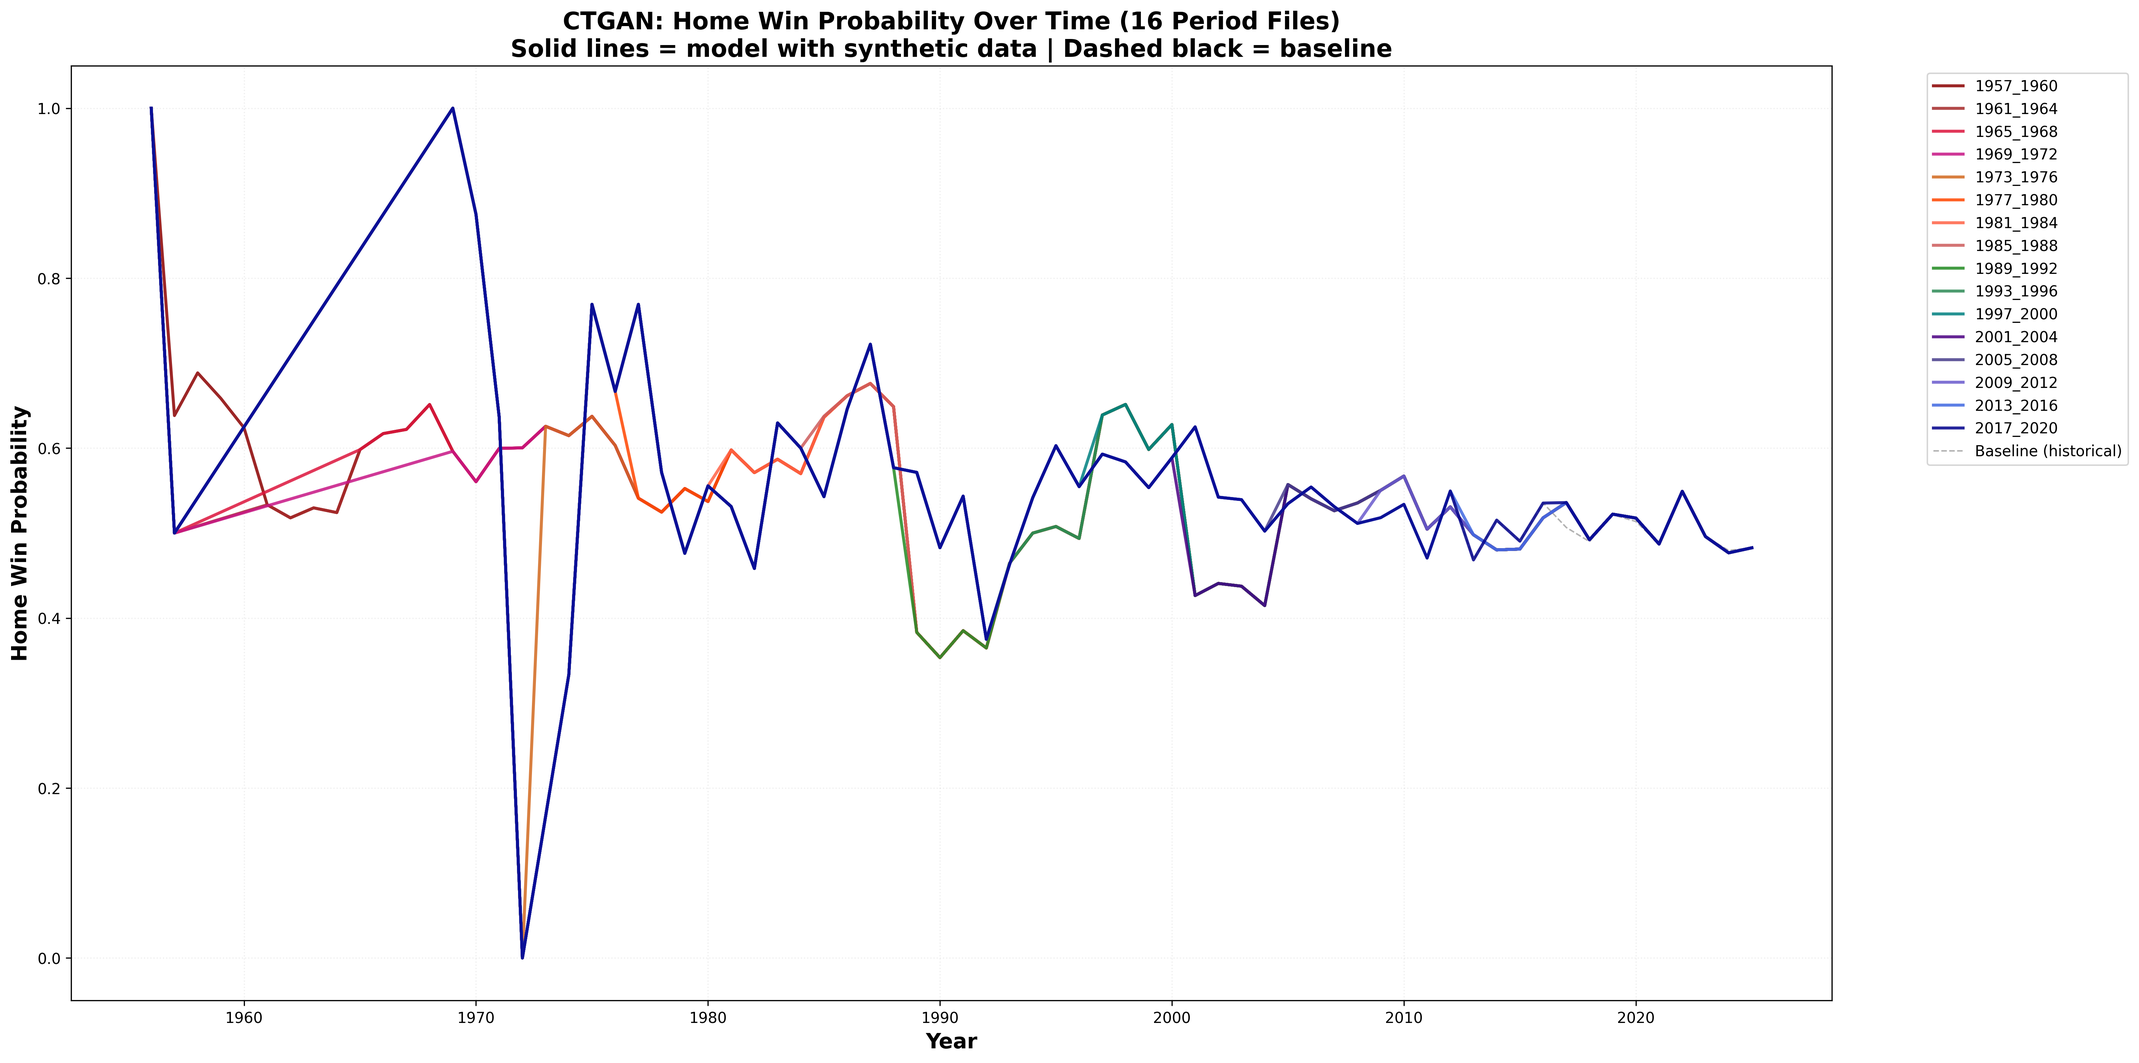
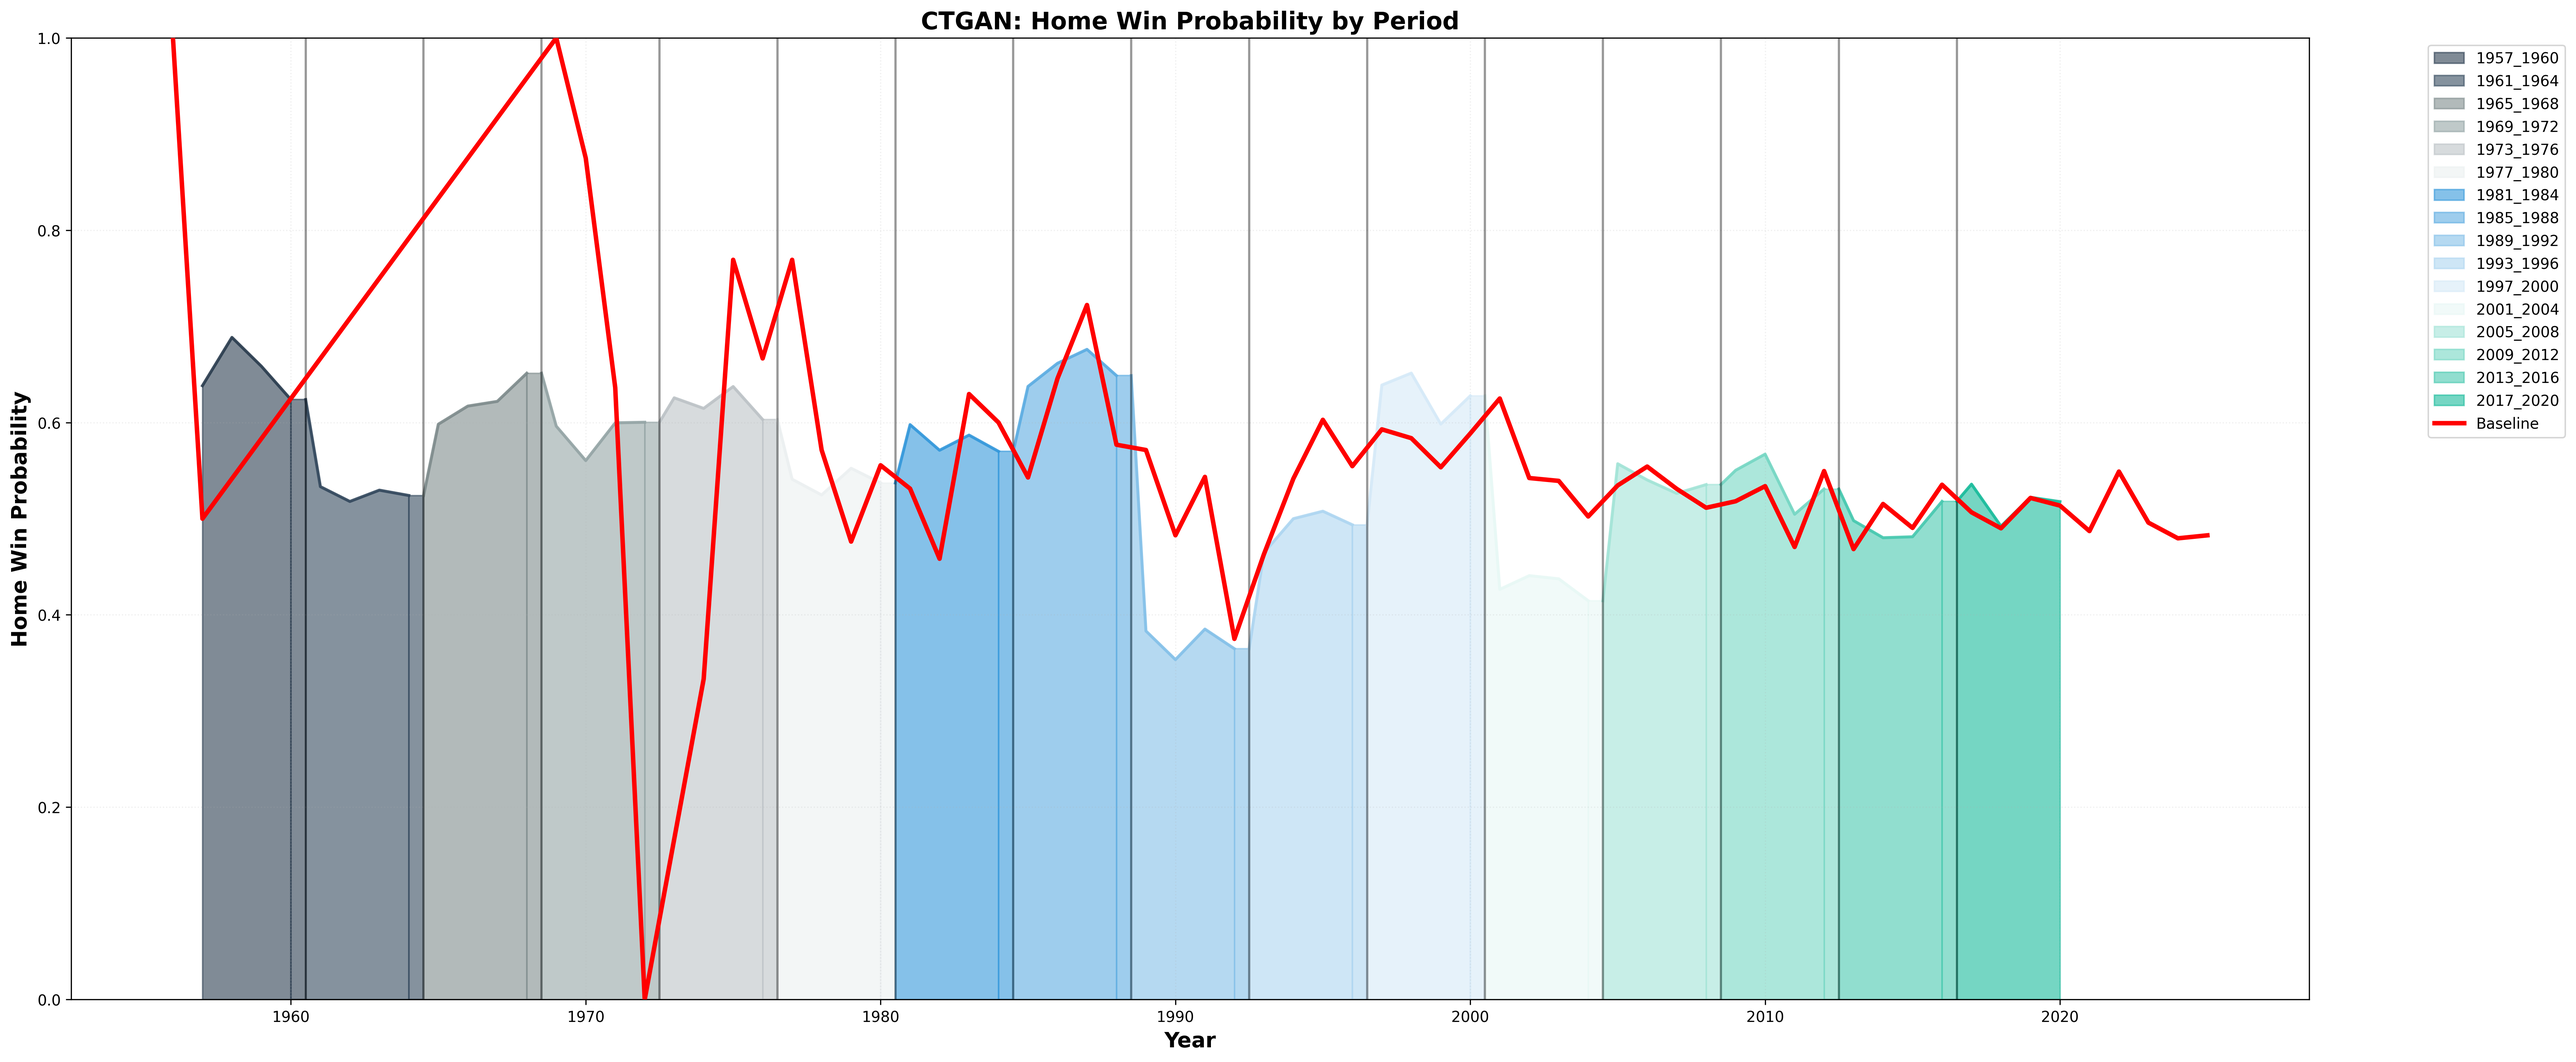
visualization

diff --git a/aggregate_visualization.py b/aggregate_visualization.py
@@ -9,137 +9,34 @@ from pathlib import Path
 class AggregateVisualizer:
     def __init__(self):
         self.properties_dir = Path('properties')
-        self.models = ['baseline', 'poisson', 'ctgan', 'gaussian_copula', 'copulagan', 'tvae']
+        self.models = ['poisson', 'ctgan', 'gaussian_copula', 'copulagan', 'tvae']
         self.periods = [
             '1957_1960', '1961_1964', '1965_1968', '1969_1972',
             '1973_1976', '1977_1980', '1981_1984', '1985_1988',
             '1989_1992', '1993_1996', '1997_2000', '2001_2004',
             '2005_2008', '2009_2012', '2013_2016', '2017_2020'
         ]
-        self.colors = {
-            'baseline': 'black',
-            'poisson': '#1f77b4',
-            'ctgan': '#ff7f0e',
-            'gaussian_copula': '#2ca02c',
-            'copulagan': '#d62728',
-            'tvae': '#9467bd'
+        
+        self.period_colors = {
+            '1957_1960': '#2C3E50', '1961_1964': '#34495E', '1965_1968': '#7F8C8D',
+            '1969_1972': '#95A5A6', '1973_1976': '#BDC3C7', '1977_1980': '#ECF0F1',
+            '1981_1984': '#3498DB', '1985_1988': '#5DADE2', '1989_1992': '#85C1E9',
+            '1993_1996': '#AED6F1', '1997_2000': '#D6EAF8', '2001_2004': '#E8F8F5',
+            '2005_2008': '#A3E4D7', '2009_2012': '#76D7C4', '2013_2016': '#48C9B0',
+            '2017_2020': '#1ABC9C'
         }
-    
-    def _load_data_for_metric(self, metric):
-        """Load all data and organize it as: rows=models, cols=periods"""
-        data = []
-        
-        # Load baseline per period from ORIGINAL DATA filtered by period dates
-        original_df = pd.read_csv('original_data/og/results.csv')
-        original_df['date'] = pd.to_datetime(original_df['date'])
-        
-        period_ranges = {
-            '1957_1960': ('1957-01-01', '1960-12-31'),
-            '1961_1964': ('1961-01-01', '1964-12-31'),
-            '1965_1968': ('1965-01-01', '1968-12-31'),
-            '1969_1972': ('1969-01-01', '1972-12-31'),
-            '1973_1976': ('1973-01-01', '1976-12-31'),
-            '1977_1980': ('1977-01-01', '1980-12-31'),
-            '1981_1984': ('1981-01-01', '1984-12-31'),
-            '1985_1988': ('1985-01-01', '1988-12-31'),
-            '1989_1992': ('1989-01-01', '1992-12-31'),
-            '1993_1996': ('1993-01-01', '1996-12-31'),
-            '1997_2000': ('1997-01-01', '2000-12-31'),
-            '2001_2004': ('2001-01-01', '2004-12-31'),
-            '2005_2008': ('2005-01-01', '2008-12-31'),
-            '2009_2012': ('2009-01-01', '2012-12-31'),
-            '2013_2016': ('2013-01-01', '2016-12-31'),
-            '2017_2020': ('2017-01-01', '2020-12-31'),
-        }
-        
-        for period, (start_date, end_date) in period_ranges.items():
-            period_df = original_df[
-                (original_df['date'] >= start_date) & 
-                (original_df['date'] <= end_date)
-            ]
-            
-            if len(period_df) > 0:
-                # Calculate the metric for this period
-                if metric == 'home_win_prob':
-                    value = (period_df['home_score'] > period_df['away_score']).mean()
-                elif metric == 'draw_prob':
-                    value = (period_df['home_score'] == period_df['away_score']).mean()
-                elif metric == 'away_win_prob':
-                    value = (period_df['home_score'] < period_df['away_score']).mean()
-                elif metric == 'avg_total_goals':
-                    value = (period_df['home_score'] + period_df['away_score']).mean()
-                elif metric == 'avg_home_goals':
-                    value = period_df['home_score'].mean()
-                elif metric == 'avg_away_goals':
-                    value = period_df['away_score'].mean()
-                elif metric == 'home_advantage':
-                    home_win = (period_df['home_score'] > period_df['away_score']).mean()
-                    away_win = (period_df['home_score'] < period_df['away_score']).mean()
-                    value = home_win - away_win
-                else:
-                    value = np.nan
-                
-                data.append({
-                    'model': 'baseline',
-                    'period': period,
-                    'value': value
-                })
-        
-        # Load model data - ACTUAL paths that exist
-        model_paths = {
-            'poisson': 'prop_gaussian',  # poisson is in prop_gaussian!
-            'gaussian_copula': 'prop_gaussian',  # gaussian_copula is in prop_gaussian!
-            'ctgan': 'prop_ctgan',
-            'copulagan': 'prop_copulagan',
-            'tvae': 'prop_tvae'
-        }
-        
-        for model, dir_name in model_paths.items():
-            for period in self.periods:
-                json_file = self.properties_dir / dir_name / f'{model}_period_{period}_aggregate_properties.json'
-                if json_file.exists():
-                    with open(json_file, 'r') as f:
-                        props = json.load(f)
-                        data.append({
-                            'model': model,
-                            'period': period,
-                            'value': props.get(metric, np.nan)
-                        })
-        
-        df = pd.DataFrame(data)
-        
-        # Pivot to get: rows=models, columns=periods
-        if len(df) > 0:
-            pivot = df.pivot(index='model', columns='period', values='value')
-            # Reorder to match our model and period order
-            pivot = pivot.reindex(self.models)
-            pivot = pivot[self.periods]
-            return pivot
-        
-        return pd.DataFrame()
     
     def visualize_single_model(self, model_name='gaussian_copula', display_name='GAUSSIAN_COPULA'):
-        """Visualize how ONE model's properties change over time across all 16 period files"""
-        
         output_dir = Path('visualizations/aggregate_comparison')
         output_dir.mkdir(parents=True, exist_ok=True)
-        
-        # Map model to directory
-        model_dirs = {
-            'poisson': 'prop_gaussian',
-            'gaussian_copula': 'prop_gaussian',
-            'ctgan': 'prop_ctgan',
-            'copulagan': 'prop_copulagan',
-            'tvae': 'prop_tvae'
-        }
         
         scored_dir = Path('scored_matches') / model_name
         if not scored_dir.exists():
             print(f"No scored matches found for {model_name}")
             return
         
-        # Load baseline - calculate per year
-        print("Loading baseline data...")
+        print(f"Processing {model_name}...")
+        
         baseline_df = pd.read_csv('original_data/og/results.csv')
         baseline_df['date'] = pd.to_datetime(baseline_df['date'])
         baseline_df['year'] = baseline_df['date'].dt.year
@@ -151,62 +48,68 @@ class AggregateVisualizer:
             }), include_groups=False
         )
         
-        # Create plot
-        fig, ax = plt.subplots(figsize=(20, 10))
+        fig, ax = plt.subplots(figsize=(24, 10))
         
-        # For each period file, calculate home_win_prob by year
-        print(f"Processing {model_name} period files...")
-        
-        # DARK, VISIBLE colors for white background
-        period_colors = {
-            '1957_1960': '#8B0000',  # DarkRed
-            '1961_1964': '#A52A2A',  # Brown
-            '1965_1968': '#DC143C',  # Crimson
-            '1969_1972': '#C71585',  # MediumVioletRed
-            '1973_1976': '#D2691E',  # Chocolate
-            '1977_1980': '#FF4500',  # OrangeRed
-            '1981_1984': '#FF6347',  # Tomato
-            '1985_1988': '#CD5C5C',  # IndianRed
-            '1989_1992': '#228B22',  # ForestGreen
-            '1993_1996': '#2E8B57',  # SeaGreen
-            '1997_2000': '#008080',  # Teal
-            '2001_2004': '#4B0082',  # Indigo
-            '2005_2008': '#483D8B',  # DarkSlateBlue
-            '2009_2012': '#6A5ACD',  # SlateBlue
-            '2013_2016': '#4169E1',  # RoyalBlue
-            '2017_2020': '#00008B'   # DarkBlue
-        }
+        prev_end_year = None
+        prev_end_value = None
         
         for idx, period in enumerate(self.periods):
             period_file = scored_dir / f'period_{period}.csv'
-            if period_file.exists():
-                df = pd.read_csv(period_file)
-                df['date'] = pd.to_datetime(df['date'])
-                df['year'] = df['date'].dt.year
+            if not period_file.exists():
+                continue
                 
-                # Calculate home_win_prob by year for this period file (ALL data including synthetic)
-                yearly_stats = df.groupby('year', as_index=False).apply(
-                    lambda x: pd.Series({
-                        'year': x.name,
-                        'home_win_prob': (x['home_score'] > x['away_score']).mean()
-                    }), include_groups=False
-                )
+            start_year, end_year = map(int, period.split('_'))
+            
+            df = pd.read_csv(period_file)
+            df['date'] = pd.to_datetime(df['date'])
+            df['year'] = df['date'].dt.year
+            
+            period_data = df[(df['year'] >= start_year) & (df['year'] <= end_year)]
+            
+            if len(period_data) == 0:
+                continue
+            
+            yearly_stats = period_data.groupby('year', as_index=False).apply(
+                lambda x: pd.Series({
+                    'year': x.name,
+                    'home_win_prob': (x['home_score'] > x['away_score']).mean()
+                }), include_groups=False
+            )
+            
+            years = yearly_stats['year'].values
+            values = yearly_stats['home_win_prob'].values
+            
+            if prev_end_year is not None and prev_end_value is not None:
+                boundary = start_year - 0.5
+                ax.fill_between([prev_end_year, boundary], [0, 0], 
+                               [prev_end_value, prev_end_value],
+                               color=self.period_colors[self.periods[idx-1]], alpha=0.6)
                 
-                # Plot this curve with clear label using DARK color
-                ax.plot(yearly_stats['year'], yearly_stats['home_win_prob'],
-                       color=period_colors[period], linewidth=2, alpha=0.85,
-                       label=f'{period}', zorder=2)
+                years = np.concatenate([[boundary, start_year], years])
+                values = np.concatenate([[prev_end_value, values[0]], values])
+            
+            ax.fill_between(years, 0, values,
+                           color=self.period_colors[period], alpha=0.6, label=f'{period}')
+            
+            ax.plot(years, values,
+                   color=self.period_colors[period], linewidth=2, alpha=0.9)
+            
+            prev_end_year = end_year
+            prev_end_value = values[-1]
+            
+            if idx < len(self.periods) - 1:
+                ax.axvline(x=end_year + 0.5, color='black', linewidth=1.5, 
+                          linestyle='-', alpha=0.4, zorder=10)
         
-        # Plot baseline - thin gray so it doesn't obscure the data
         ax.plot(baseline_by_year['year'], baseline_by_year['home_win_prob'],
-               color='gray', linewidth=1, linestyle='--', label='Baseline (historical)',
-               alpha=0.6, zorder=1)
+               color='red', linewidth=3, linestyle='-', label='Baseline',
+               alpha=1.0, zorder=20)
         
-        ax.set_title(f'{display_name}: Home Win Probability Over Time (16 Period Files)\n' +
-                    'Solid lines = model with synthetic data | Dashed black = baseline',
+        ax.set_title(f'{display_name}: Home Win Probability by Period',
                     fontsize=16, fontweight='bold')
         ax.set_xlabel('Year', fontsize=14, fontweight='bold')
         ax.set_ylabel('Home Win Probability', fontsize=14, fontweight='bold')
+        ax.set_ylim(0, 1)
         ax.legend(bbox_to_anchor=(1.05, 1), loc='upper left', fontsize=10, ncol=1)
         ax.grid(True, alpha=0.2, linestyle=':')
         
@@ -214,68 +117,25 @@ class AggregateVisualizer:
         plt.savefig(output_dir / f'{model_name}_temporal_evolution.png', dpi=300, bbox_inches='tight')
         plt.close()
         
-        print(f"Visualization saved to {output_dir}/{model_name}_temporal_evolution.png")
-    
-    def visualize_single_metric(self, metric='home_win_prob', metric_name='Home Win Probability'):
-        """Create line plot showing how metric changes as synthetic data accumulates"""
-        data_matrix = self._load_data_for_metric(metric)
-        
-        if data_matrix.empty:
-            print(f"No data found for {metric}")
-            return
-        
-        output_dir = Path('visualizations/aggregate_comparison')
-        output_dir.mkdir(parents=True, exist_ok=True)
-        
-        # Create line plot
-        fig, ax = plt.subplots(figsize=(18, 10))
-        
-        x = range(len(self.periods))
-        
-        # Plot baseline (historical values per period)
-        if 'baseline' in data_matrix.index:
-            baseline_values = data_matrix.loc['baseline'].values
-            ax.plot(x, baseline_values, 
-                   color=self.colors['baseline'], marker='o', 
-                   linewidth=3, markersize=8, label='Baseline (historical)', 
-                   alpha=0.9, zorder=10)
-        
-        # Plot each model (cumulative: original + synthetic)
-        for model in ['poisson', 'ctgan', 'gaussian_copula', 'copulagan', 'tvae']:
-            if model in data_matrix.index:
-                model_values = data_matrix.loc[model].values
-                ax.plot(x, model_values,
-                       color=self.colors[model], marker='o', 
-                       linewidth=2.5, markersize=6, label=model, alpha=0.8)
-        
-        ax.set_title(f'{metric_name}: How Synthetic Data Affects Total Dataset Properties\n' +
-                    'Left = most synthetic data added | Right = least synthetic data added',
-                    fontsize=16, fontweight='bold', pad=20)
-        ax.set_xlabel('Period (accumulating synthetic data)', 
-                     fontsize=14, fontweight='bold')
-        ax.set_ylabel(metric_name, fontsize=14, fontweight='bold')
-        ax.set_xticks(x)
-        ax.set_xticklabels(self.periods, rotation=45, ha='right', fontsize=11)
-        ax.legend(loc='best', fontsize=12, framealpha=0.9)
-        ax.grid(True, alpha=0.3, linestyle='--')
-        
-        plt.tight_layout()
-        plt.savefig(output_dir / f'{metric}_comparison.png', dpi=300, bbox_inches='tight')
-        plt.close()
-        
-        print(f"\nVisualization saved to {output_dir}/")
-        print(f"  - {metric}_comparison.png")
+        print(f"Saved: {output_dir}/{model_name}_temporal_evolution.png")
 
 
 def main():
-    print("Creating aggregate property visualizations...")
+    print("Creating aggregate visualizations for all models...\n")
     visualizer = AggregateVisualizer()
     
-    # Visualize one model at a time to see how synthetic data amount affects properties
-    print("\nGenerating visualizations for CTGAN model...")
-    visualizer.visualize_single_model('poisson', 'POISSON')
+    model_configs = [
+        ('poisson', 'POISSON'),
+        ('ctgan', 'CTGAN'),
+        ('gaussian_copula', 'GAUSSIAN COPULA'),
+        ('copulagan', 'COPULAGAN'),
+        ('tvae', 'TVAE')
+    ]
     
-    print("\nDone!")
+    for model_name, display_name in model_configs:
+        visualizer.visualize_single_model(model_name, display_name)
+    
+    print("\nAll visualizations complete!")
 
 
 if __name__ == '__main__':
